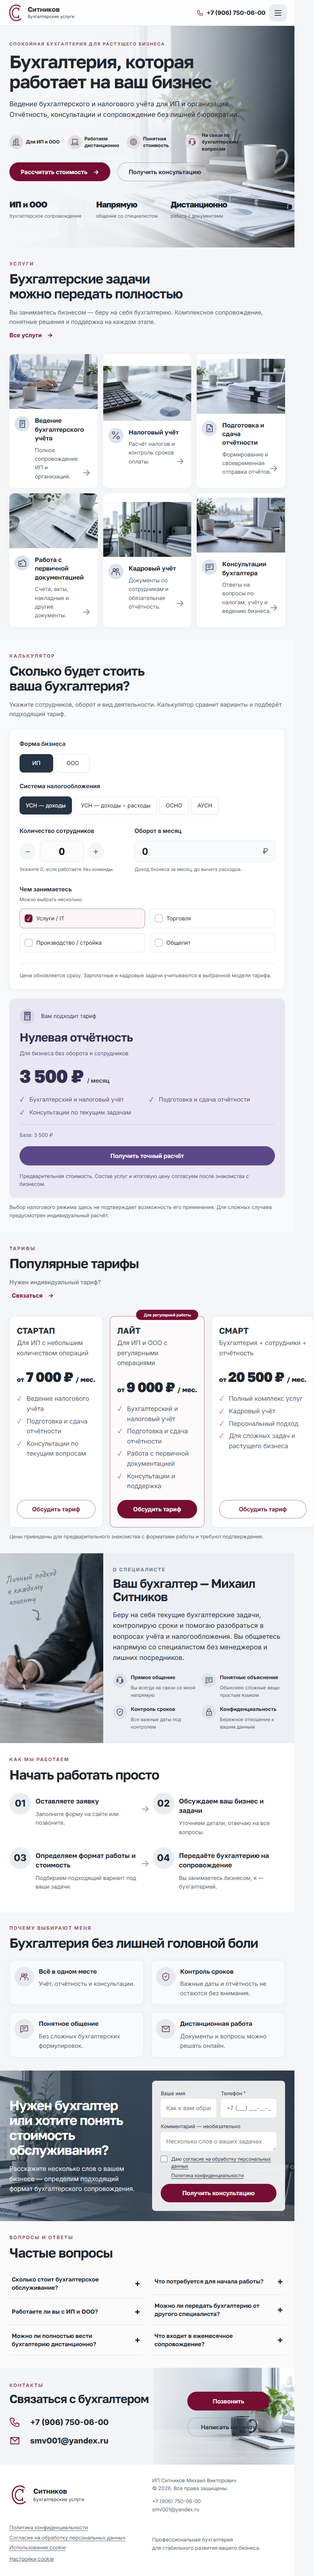
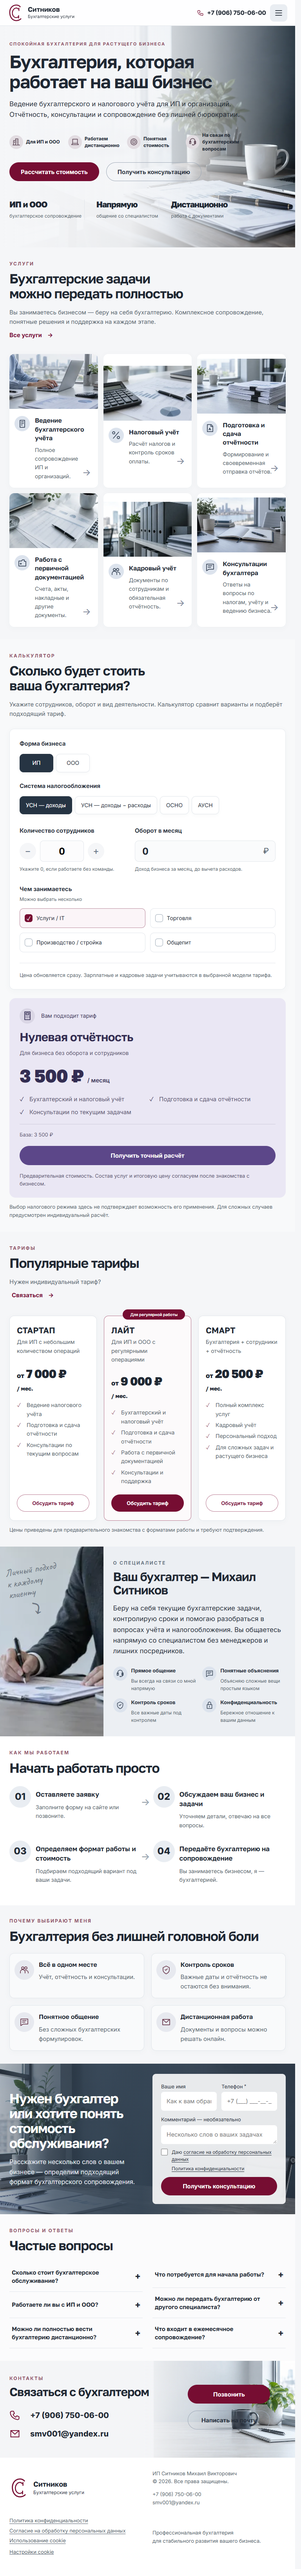
Polish mobile hero caption and primary button

diff --git a/index.html b/index.html
@@ -1,4 +1,4 @@
-<!doctype html><html lang="ru"><head><meta charset="utf-8"><meta name="viewport" content="width=device-width, initial-scale=1"><title>Бухгалтерские услуги для ИП и ООО — Михаил Ситников</title><meta name="description" content="Бухгалтерское сопровождение ИП и ООО: учёт, налоги, отчётность и кадровые задачи. Михаил Ситников. Расчёт стоимости и консультация."><meta name="robots" content="noindex, nofollow"><meta property="og:type" content="website"><meta property="og:locale" content="ru_RU"><meta property="og:title" content="Бухгалтерские услуги для ИП и ООО — Михаил Ситников"><meta property="og:description" content="Бухгалтерское сопровождение ИП и ООО: учёт, налоги, отчётность и кадровые задачи. Михаил Ситников. Расчёт стоимости и консультация."><meta property="og:site_name" content="Ситников — Бухгалтерские услуги"><link rel="icon" href="assets/icons/favicon.svg" type="image/svg+xml"><link rel="apple-touch-icon" href="assets/icons/apple-touch-icon.png"><link rel="preload" href="assets/fonts/inter.woff2" as="font" type="font/woff2" crossorigin><link rel="stylesheet" href="assets/css/styles.css"><link rel="stylesheet" href="assets/css/refinements.css"><script defer src="assets/js/config.js"></script><script defer src="assets/js/pricing.js"></script><script defer src="assets/js/main.js"></script><script defer src="assets/js/forms.js"></script><script type="application/ld+json">{"@context":"https://schema.org","@type":"AccountingService","name":"ИП Ситников Михаил Викторович","telephone":"+79067500600","email":"smv001@yandex.ru","description":"Бухгалтерское сопровождение ИП и ООО, налоговый учёт, отчётность и консультации."}</script></head><body><a class="skip-link" href="#main">Перейти к содержимому</a><header class="site-header"><div class="header-inner"><a class="brand" href="index.html" aria-label="Ситников — на главную"><img src="assets/icons/logo.svg" width="40" height="48" alt=""><div><strong>Ситников</strong><span>Бухгалтерские услуги</span></div></a><nav class="desktop-nav" aria-label="Основная навигация"><a href="#services">Услуги</a><a href="#tariffs">Тарифы</a><a href="#about">О специалисте</a><a href="#process">Как работаем</a><a href="#faq">Вопросы</a><a href="#contacts">Контакты</a></nav><div class="header-actions"><a class="header-phone" data-contact="phone" href="tel:+79067500600"><svg aria-hidden="true"><use href="assets/icons/sprite.svg#phone"></use></svg><span>+7 (906) 750-06-00</span></a><button class="button small" data-request="Консультация">Получить консультацию</button><button class="icon-button search-toggle" data-open="search-dialog" aria-label="Поиск по сайту"><svg aria-hidden="true"><use href="assets/icons/sprite.svg#search"></use></svg></button><button class="icon-button menu-toggle" data-open="menu-dialog" aria-label="Открыть меню" aria-controls="menu-dialog" aria-expanded="false"><svg aria-hidden="true"><use href="assets/icons/sprite.svg#menu"></use></svg></button></div></div></header><noscript><style>.faq-answer{grid-template-rows:1fr}.menu-toggle,[data-request],[data-open],[data-service],[data-calculator-request]{pointer-events:none}</style><p class="no-js-note">Для калькулятора и отправки формы включите JavaScript. Позвоните <a href="tel:+79067500600">+7 (906) 750-06-00</a> или напишите <a href="mailto:smv001@yandex.ru">smv001@yandex.ru</a>.</p></noscript><main id="main"><section class="hero" aria-labelledby="hero-title"><picture class="hero-photo"><source type="image/webp" srcset="assets/images/hero-480.webp 480w, assets/images/hero.webp 1536w" sizes="100vw"><img src="assets/images/hero.jpg" alt="" width="1536" height="1024" fetchpriority="high" decoding="async"></picture><div class="container hero-inner"><div class="hero-content"><p class="eyebrow">Спокойная бухгалтерия для растущего бизнеса</p><h1 id="hero-title">Бухгалтерия, которая<br>работает на ваш бизнес</h1><p class="hero-description">Ведение бухгалтерского и налогового учёта для ИП и организаций. Отчётность, консультации и сопровождение без лишней бюрократии.</p><ul class="hero-features"><li><span class="icon-disc"><svg aria-hidden="true"><use href="assets/icons/sprite.svg#building"></use></svg></span><span>Для ИП и ООО</span></li><li><span class="icon-disc"><svg aria-hidden="true"><use href="assets/icons/sprite.svg#laptop"></use></svg></span><span>Работаем дистанционно</span></li><li><span class="icon-disc"><svg aria-hidden="true"><use href="assets/icons/sprite.svg#target"></use></svg></span><span>Понятная стоимость</span></li><li><span class="icon-disc"><svg aria-hidden="true"><use href="assets/icons/sprite.svg#support"></use></svg></span><span>На связи по бухгалтерским вопросам</span></li></ul><div class="hero-buttons"><a class="button" href="#calculator">Рассчитать стоимость <span aria-hidden="true">→</span></a><button class="button outline" data-request="Консультация">Получить консультацию</button></div><ul class="hero-highlights"><li><strong>ИП и ООО</strong><span>бухгалтерское сопровождение</span></li><li><strong>Напрямую</strong><span>общение со специалистом</span></li><li><strong>Дистанционно</strong><span>работа с документами</span></li></ul></div></div><p class="handwritten hero-note" aria-hidden="true">Больше времени<br>на развитие<br>вашего бизнеса<span class="note-arrow">⤵</span></p></section>
+<!doctype html><html lang="ru"><head><meta charset="utf-8"><meta name="viewport" content="width=device-width, initial-scale=1"><title>Бухгалтерские услуги для ИП и ООО — Михаил Ситников</title><meta name="description" content="Бухгалтерское сопровождение ИП и ООО: учёт, налоги, отчётность и кадровые задачи. Михаил Ситников. Расчёт стоимости и консультация."><meta name="robots" content="noindex, nofollow"><meta property="og:type" content="website"><meta property="og:locale" content="ru_RU"><meta property="og:title" content="Бухгалтерские услуги для ИП и ООО — Михаил Ситников"><meta property="og:description" content="Бухгалтерское сопровождение ИП и ООО: учёт, налоги, отчётность и кадровые задачи. Михаил Ситников. Расчёт стоимости и консультация."><meta property="og:site_name" content="Ситников — Бухгалтерские услуги"><link rel="icon" href="assets/icons/favicon.svg" type="image/svg+xml"><link rel="apple-touch-icon" href="assets/icons/apple-touch-icon.png"><link rel="preload" href="assets/fonts/inter.woff2" as="font" type="font/woff2" crossorigin><link rel="stylesheet" href="assets/css/styles.css"><link rel="stylesheet" href="assets/css/refinements.css"><script defer src="assets/js/config.js"></script><script defer src="assets/js/pricing.js"></script><script defer src="assets/js/main.js"></script><script defer src="assets/js/forms.js"></script><script type="application/ld+json">{"@context":"https://schema.org","@type":"AccountingService","name":"ИП Ситников Михаил Викторович","telephone":"+79067500600","email":"smv001@yandex.ru","description":"Бухгалтерское сопровождение ИП и ООО, налоговый учёт, отчётность и консультации."}</script></head><body><a class="skip-link" href="#main">Перейти к содержимому</a><header class="site-header"><div class="header-inner"><a class="brand" href="index.html" aria-label="Ситников — на главную"><img src="assets/icons/logo.svg" width="40" height="48" alt=""><div><strong>Ситников</strong><span>Бухгалтерские услуги</span></div></a><nav class="desktop-nav" aria-label="Основная навигация"><a href="#services">Услуги</a><a href="#tariffs">Тарифы</a><a href="#about">О специалисте</a><a href="#process">Как работаем</a><a href="#faq">Вопросы</a><a href="#contacts">Контакты</a></nav><div class="header-actions"><a class="header-phone" data-contact="phone" href="tel:+79067500600"><svg aria-hidden="true"><use href="assets/icons/sprite.svg#phone"></use></svg><span>+7 (906) 750-06-00</span></a><button class="button small" data-request="Консультация">Получить консультацию</button><button class="icon-button search-toggle" data-open="search-dialog" aria-label="Поиск по сайту"><svg aria-hidden="true"><use href="assets/icons/sprite.svg#search"></use></svg></button><button class="icon-button menu-toggle" data-open="menu-dialog" aria-label="Открыть меню" aria-controls="menu-dialog" aria-expanded="false"><svg aria-hidden="true"><use href="assets/icons/sprite.svg#menu"></use></svg></button></div></div></header><noscript><style>.faq-answer{grid-template-rows:1fr}.menu-toggle,[data-request],[data-open],[data-service],[data-calculator-request]{pointer-events:none}</style><p class="no-js-note">Для калькулятора и отправки формы включите JavaScript. Позвоните <a href="tel:+79067500600">+7 (906) 750-06-00</a> или напишите <a href="mailto:smv001@yandex.ru">smv001@yandex.ru</a>.</p></noscript><main id="main"><section class="hero" aria-labelledby="hero-title"><picture class="hero-photo"><source type="image/webp" srcset="assets/images/hero-480.webp 480w, assets/images/hero.webp 1536w" sizes="100vw"><img src="assets/images/hero.jpg" alt="" width="1536" height="1024" fetchpriority="high" decoding="async"></picture><div class="container hero-inner"><div class="hero-content"><p class="eyebrow">Спокойная бухгалтерия для растущего бизнеса</p><h1 id="hero-title">Бухгалтерия, которая<br>работает на ваш бизнес</h1><p class="hero-description">Ведение бухгалтерского и налогового учёта для ИП и организаций. Отчётность, консультации и сопровождение без лишней бюрократии.</p><ul class="hero-features"><li><span class="icon-disc"><svg aria-hidden="true"><use href="assets/icons/sprite.svg#building"></use></svg></span><span>Для ИП и ООО</span></li><li><span class="icon-disc"><svg aria-hidden="true"><use href="assets/icons/sprite.svg#laptop"></use></svg></span><span>Работаем дистанционно</span></li><li><span class="icon-disc"><svg aria-hidden="true"><use href="assets/icons/sprite.svg#target"></use></svg></span><span>Понятная стоимость</span></li><li><span class="icon-disc"><svg aria-hidden="true"><use href="assets/icons/sprite.svg#support"></use></svg></span><span>На связи по бухгалтерским вопросам</span></li></ul><div class="hero-buttons"><a class="button" href="#calculator">Рассчитать стоимость</a><button class="button outline" data-request="Консультация">Получить консультацию</button></div><ul class="hero-highlights"><li><strong>ИП и ООО</strong><span>бухгалтерское сопровождение</span></li><li><strong>Напрямую</strong><span>общение со специалистом</span></li><li><strong>Дистанционно</strong><span>работа с документами</span></li></ul></div></div><p class="handwritten hero-note" aria-hidden="true">Больше времени<br>на развитие<br>вашего бизнеса<span class="note-arrow">⤵</span></p></section>
 <section class="section" id="services"><div class="container"><div class="section-head"><div><p class="eyebrow">Услуги</p><h2>Бухгалтерские задачи<br>можно передать полностью</h2></div><div class="section-intro"><p>Вы занимаетесь бизнесом — беру на себя бухгалтерию. Комплексное сопровождение, понятные решения и поддержка на каждом этапе.</p><a class="text-link" href="#services-grid">Все услуги <span aria-hidden="true">→</span></a></div></div><div class="services-grid" id="services-grid"><article class="service-card reveal"><button data-service="0" data-title="Ведение бухгалтерского учёта" data-description="Помогу организовать учёт хозяйственных операций, проверить документы и подготовить данные для отчётности. Состав сопровождения согласуем с учётом формы бизнеса и ваших задач." aria-label="Подробнее: Ведение бухгалтерского учёта"><picture class="service-image"><source type="image/webp" srcset="assets/images/bookkeeping-480.webp 480w, assets/images/bookkeeping.webp 820w" sizes="(max-width: 700px) 90vw, 33vw"><img src="assets/images/bookkeeping.jpg" alt="" width="1536" height="1024" loading="lazy" decoding="async"></picture><div class="service-content"><span class="icon-disc"><svg aria-hidden="true"><use href="assets/icons/sprite.svg#document"></use></svg></span><div><h3>Ведение бухгалтерского учёта</h3><p>Полное сопровождение ИП и организаций.</p></div><span class="service-arrow" aria-hidden="true">→</span></div></button></article><article class="service-card reveal"><button data-service="1" data-title="Налоговый учёт" data-description="Подготовлю расчёты на основе ваших документов, помогу разобраться с платежами и сроками. Особенности налогового режима и перечень задач обсуждаем до начала работы." aria-label="Подробнее: Налоговый учёт"><picture class="service-image"><source type="image/webp" srcset="assets/images/tax-480.webp 480w, assets/images/tax.webp 820w" sizes="(max-width: 700px) 90vw, 33vw"><img src="assets/images/tax.jpg" alt="" width="1536" height="1024" loading="lazy" decoding="async"></picture><div class="service-content"><span class="icon-disc"><svg aria-hidden="true"><use href="assets/icons/sprite.svg#percent"></use></svg></span><div><h3>Налоговый учёт</h3><p>Расчёт налогов и контроль сроков оплаты.</p></div><span class="service-arrow" aria-hidden="true">→</span></div></button></article><article class="service-card reveal"><button data-service="2" data-title="Подготовка и сдача отчётности" data-description="Подготовлю отчётность по согласованному перечню и проверю исходные данные. Обсудим порядок подписания, отправки и получения подтверждений от контролирующих органов." aria-label="Подробнее: Подготовка и сдача отчётности"><picture class="service-image"><source type="image/webp" srcset="assets/images/reporting-480.webp 480w, assets/images/reporting.webp 820w" sizes="(max-width: 700px) 90vw, 33vw"><img src="assets/images/reporting.jpg" alt="" width="1536" height="1024" loading="lazy" decoding="async"></picture><div class="service-content"><span class="icon-disc"><svg aria-hidden="true"><use href="assets/icons/sprite.svg#report"></use></svg></span><div><h3>Подготовка и сдача отчётности</h3><p>Формирование и своевременная отправка отчётов.</p></div><span class="service-arrow" aria-hidden="true">→</span></div></button></article><article class="service-card reveal"><button data-service="3" data-title="Работа с первичной документацией" data-description="Помогу проверить и систематизировать первичные документы, выявить недостающие сведения и организовать удобный обмен файлами. Объём обработки согласуем заранее." aria-label="Подробнее: Работа с первичной документацией"><picture class="service-image"><source type="image/webp" srcset="assets/images/documents-480.webp 480w, assets/images/documents.webp 820w" sizes="(max-width: 700px) 90vw, 33vw"><img src="assets/images/documents.jpg" alt="" width="1536" height="1024" loading="lazy" decoding="async"></picture><div class="service-content"><span class="icon-disc"><svg aria-hidden="true"><use href="assets/icons/sprite.svg#folder"></use></svg></span><div><h3>Работа с первичной документацией</h3><p>Счета, акты, накладные и другие документы.</p></div><span class="service-arrow" aria-hidden="true">→</span></div></button></article><article class="service-card reveal"><button data-service="4" data-title="Кадровый учёт" data-description="Помогу с оформлением кадровых документов, расчётом зарплаты и подготовкой отчётности по сотрудникам. Перечень работ зависит от численности и особенностей вашей команды." aria-label="Подробнее: Кадровый учёт"><picture class="service-image"><source type="image/webp" srcset="assets/images/payroll-480.webp 480w, assets/images/payroll.webp 820w" sizes="(max-width: 700px) 90vw, 33vw"><img src="assets/images/payroll.jpg" alt="" width="1536" height="1024" loading="lazy" decoding="async"></picture><div class="service-content"><span class="icon-disc"><svg aria-hidden="true"><use href="assets/icons/sprite.svg#users"></use></svg></span><div><h3>Кадровый учёт</h3><p>Документы по сотрудникам и обязательная отчётность.</p></div><span class="service-arrow" aria-hidden="true">→</span></div></button></article><article class="service-card reveal"><button data-service="5" data-title="Консультации бухгалтера" data-description="Разберём ваш вопрос и документы, обсудим возможные действия и объясню порядок работы понятным языком. Формат и стоимость консультации согласуем перед началом." aria-label="Подробнее: Консультации бухгалтера"><picture class="service-image"><source type="image/webp" srcset="assets/images/consulting-480.webp 480w, assets/images/consulting.webp 820w" sizes="(max-width: 700px) 90vw, 33vw"><img src="assets/images/consulting.jpg" alt="" width="1536" height="1024" loading="lazy" decoding="async"></picture><div class="service-content"><span class="icon-disc"><svg aria-hidden="true"><use href="assets/icons/sprite.svg#chat"></use></svg></span><div><h3>Консультации бухгалтера</h3><p>Ответы на вопросы по налогам, учёту и ведению бизнеса.</p></div><span class="service-arrow" aria-hidden="true">→</span></div></button></article></div></div></section>
 <section class="section calculator-section" id="calculator"><div class="container"><div class="section-head"><div><p class="eyebrow">Калькулятор</p><h2>Сколько будет стоить<br>ваша бухгалтерия?</h2></div><p class="section-intro">Укажите сотрудников, оборот и вид деятельности. Калькулятор сравнит варианты и подберёт подходящий тариф.</p></div><div class="calculator-grid"><form class="calculator-panel" id="calculator-form"><div class="calculator-top"><fieldset><legend>Форма бизнеса</legend><div class="choices"><label class="choice"><input type="radio" name="business" value="ip" checked><span>ИП</span></label><label class="choice"><input type="radio" name="business" value="ooo" ><span>ООО</span></label></div></fieldset><fieldset><legend>Система налогообложения</legend><div class="choices"><label class="choice"><input type="radio" name="tax" value="income" checked><span>УСН — доходы</span></label><label class="choice"><input type="radio" name="tax" value="expense" ><span>УСН — доходы − расходы</span></label><label class="choice"><input type="radio" name="tax" value="general" ><span>ОСНО</span></label><label class="choice"><input type="radio" name="tax" value="automated" ><span>АУСН</span></label></div></fieldset></div><div class="calculator-numbers"><div><label class="field-label" for="employees">Количество сотрудников</label><div class="stepper"><button type="button" data-step="employees" data-delta="-1" aria-label="Уменьшить число сотрудников">−</button><input type="number" id="employees" name="employees" min="0" max="1000" step="1" value="0" inputmode="numeric"><button type="button" data-step="employees" data-delta="1" aria-label="Увеличить число сотрудников">+</button></div><p class="input-hint">Укажите 0, если работаете без команды.</p></div><div><label class="field-label" for="turnover">Оборот в месяц</label><div class="turnover-field"><input type="text" id="turnover" name="turnover" inputmode="numeric" autocomplete="off" maxlength="17" value="0" aria-describedby="turnover-hint"><span aria-hidden="true">₽</span></div><p class="input-hint" id="turnover-hint">Доход бизнеса за месяц, до вычета расходов.</p></div></div><fieldset class="activity-fieldset"><legend>Чем занимаетесь <span class="legend-hint">Можно выбрать несколько</span></legend><div class="activity-choices"><label class="activity-choice"><input type="checkbox" name="activities" value="service" checked><span>Услуги / IT</span></label><label class="activity-choice"><input type="checkbox" name="activities" value="trade" ><span>Торговля</span></label><label class="activity-choice"><input type="checkbox" name="activities" value="production" ><span>Производство / стройка</span></label><label class="activity-choice"><input type="checkbox" name="activities" value="restaurant" ><span>Общепит</span></label></div></fieldset><p class="calculator-help">Цена обновляется сразу. Зарплатные и кадровые задачи учитываются в выбранной модели тарифа.</p></form><aside class="result-card" data-theme="lavender"><div class="result-label"><span class="icon-disc"><svg aria-hidden="true"><use href="assets/icons/sprite.svg#calculator"></use></svg></span><span>Вам подходит тариф</span></div><div class="result-heading" aria-live="polite" aria-atomic="true"><h3 id="calculated-plan">Нулевая отчётность</h3><p class="result-type" id="calculated-summary">Для бизнеса без оборота и сотрудников</p><div class="price"><span id="calculated-price">3 500</span><span class="price-unit"> ₽ <small>/ месяц</small></span></div></div><ul class="check-list result-includes"><li>Бухгалтерский и налоговый учёт</li><li>Подготовка и сдача отчётности</li><li>Консультации по текущим задачам</li></ul><p class="result-breakdown" id="price-breakdown">Предварительный расчёт по вашим параметрам</p><button class="button" data-calculator-request>Получить точный расчёт</button><p class="result-disclaimer">Предварительная стоимость. Состав услуг и итоговую цену согласуем после знакомства с бизнесом.</p></aside></div><p class="demo-note">Выбор налогового режима здесь не подтверждает возможность его применения. Для сложных случаев предусмотрен индивидуальный расчёт.</p></div></section>
 

diff --git a/assets/css/refinements.css b/assets/css/refinements.css
@@ -12,5 +12,8 @@ body{font-size:16px;line-height:1.6}h1,h2{font-weight:650;letter-spacing:-.035em
 .tariff-grid>*{min-width:0}
 @media(min-width:701px) and (max-width:1050px){.tariff-price{font-size:30px;white-space:normal;min-height:78px}.tariff-price small{display:block;font-size:14px;margin-top:3px}.tariff .check-list,.tariff-description{font-size:14px}.tariff .button{font-size:13px;padding:12px 16px}}
 dialog.closing{pointer-events:none}
+.hero .eyebrow{max-width:none;white-space:nowrap}
+.hero-buttons .button{text-align:center}
+@media(max-width:700px){.hero .eyebrow{font-size:clamp(8.5px,2.7vw,12px);letter-spacing:.055em}}
 @media(max-width:700px){.hero-highlights strong{font-size:clamp(12px,3.8vw,16px);white-space:nowrap}}
 @media(prefers-reduced-motion:reduce){.mobile-menu[open],.mobile-menu.closing,.mobile-menu::backdrop,.mobile-menu.closing::backdrop{animation:none!important}.result-card,.result-card *{transition:none!important}}
